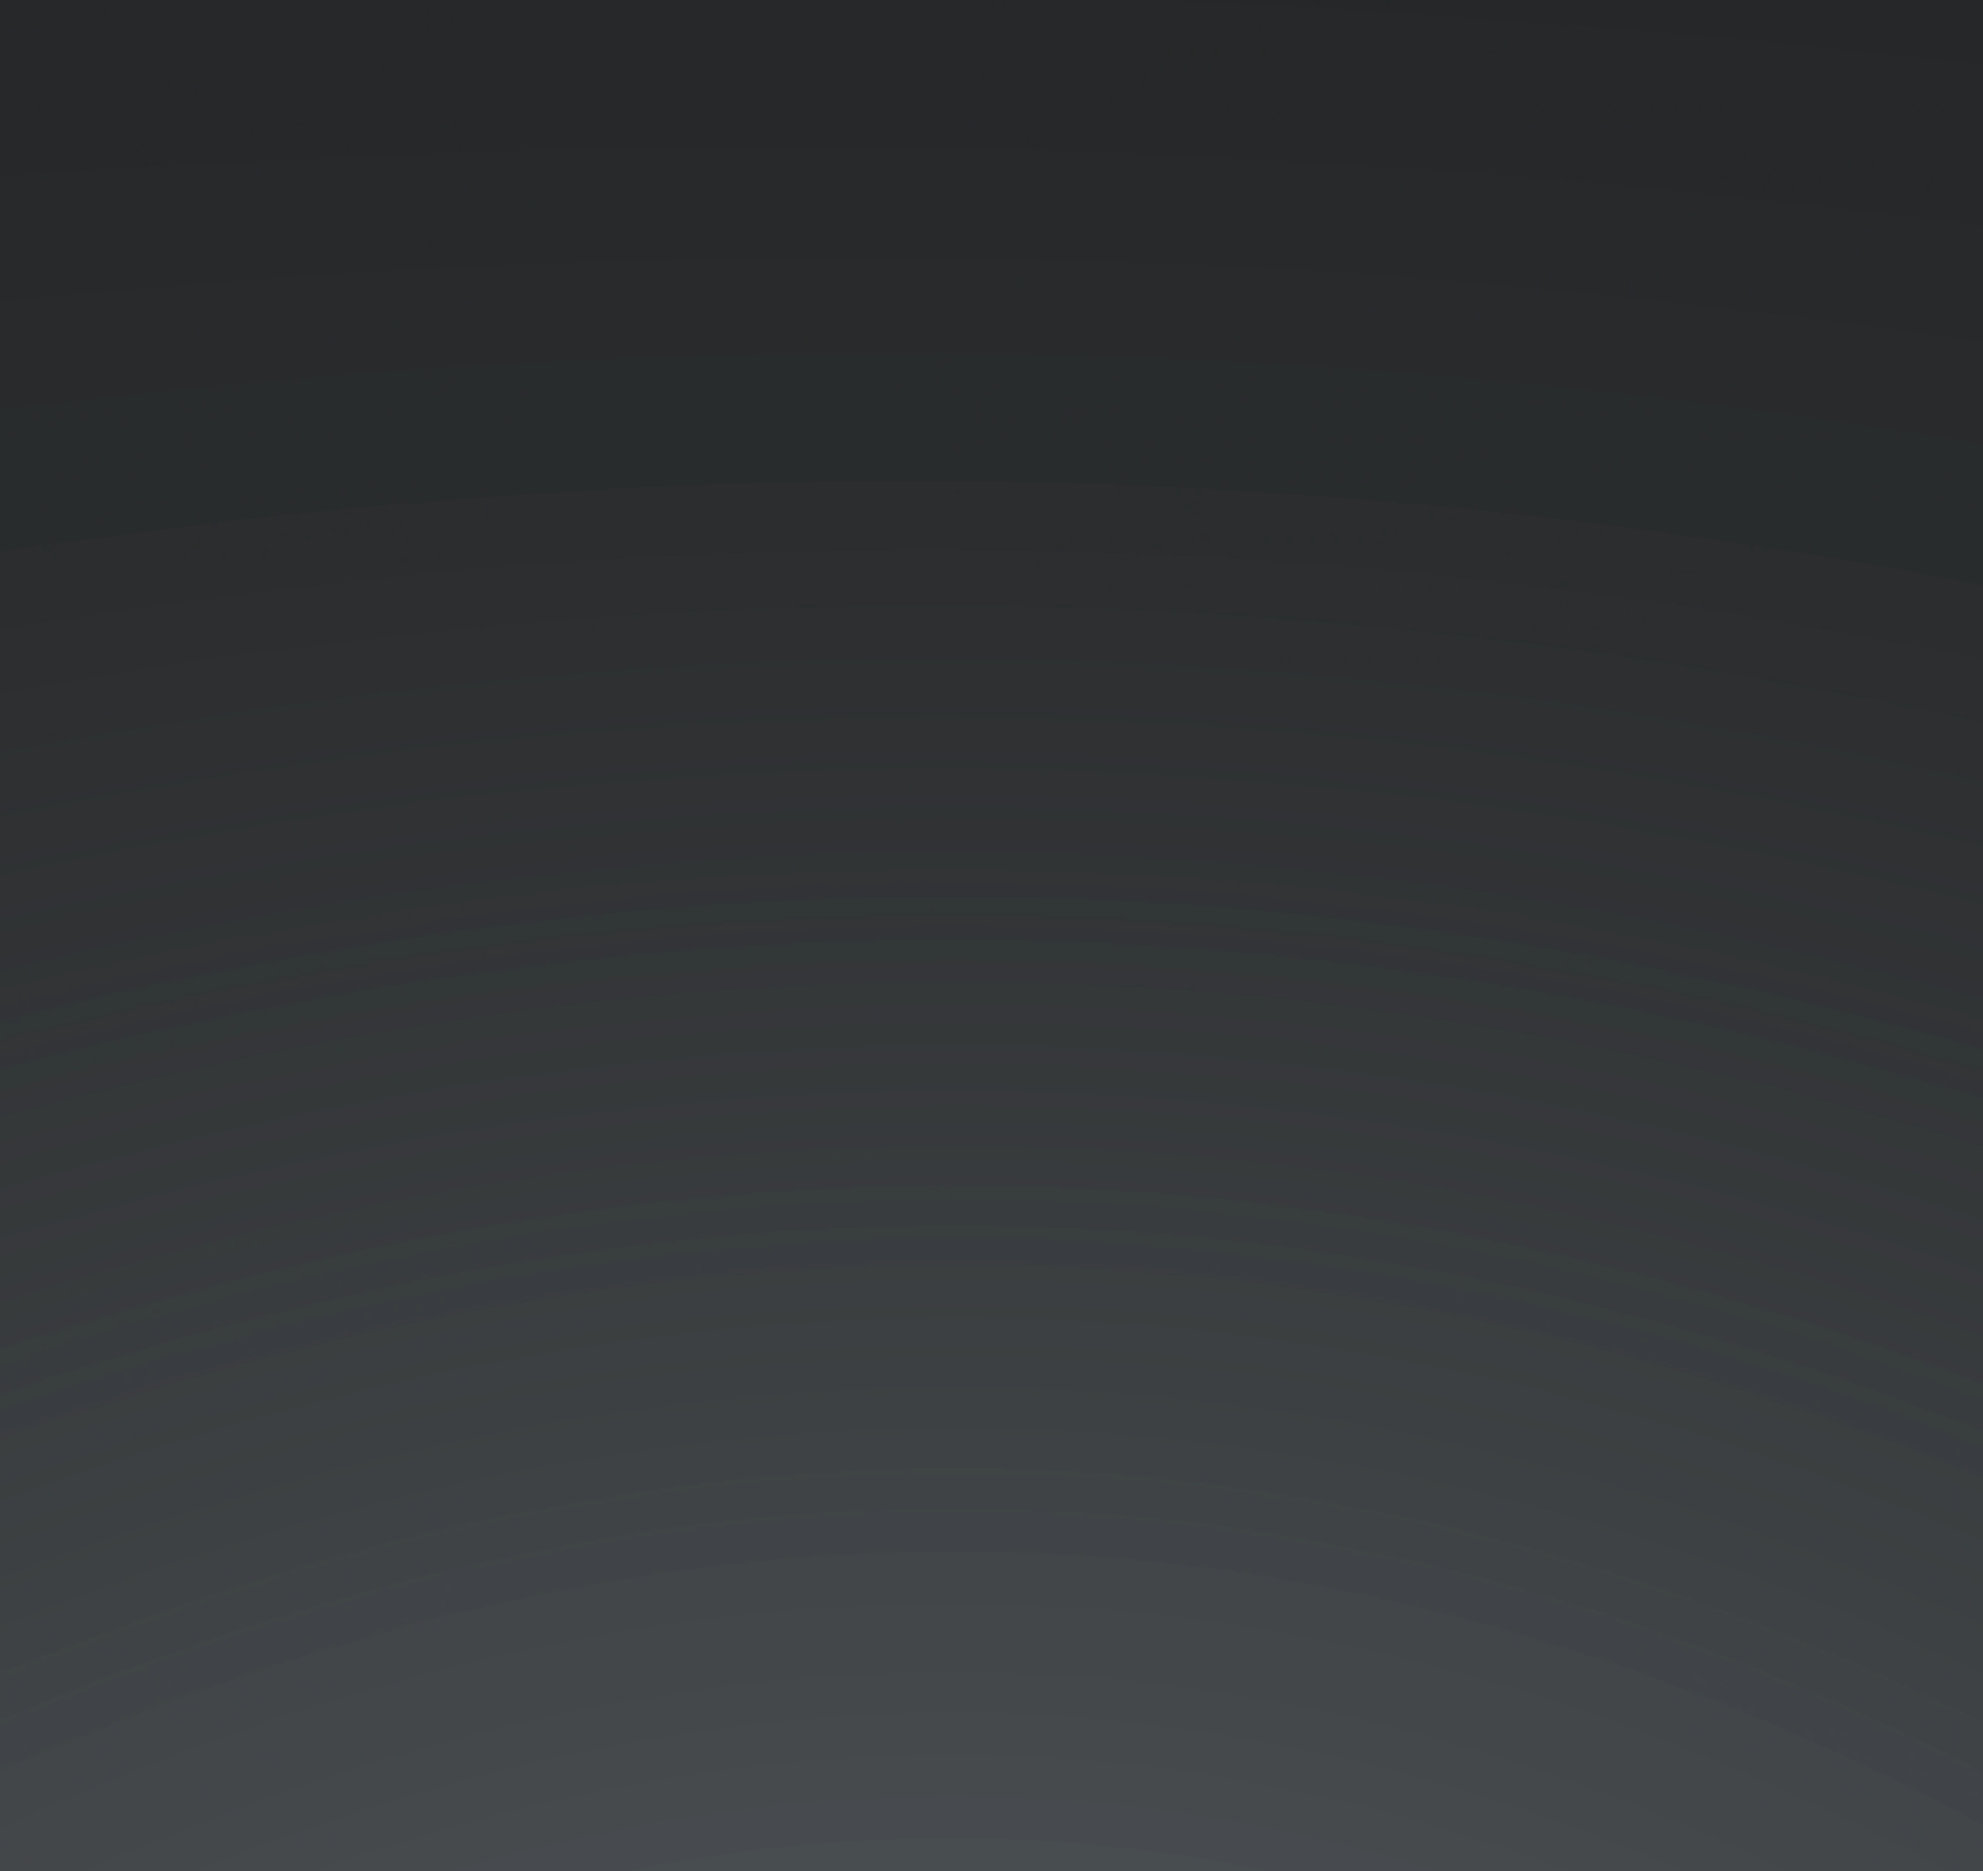
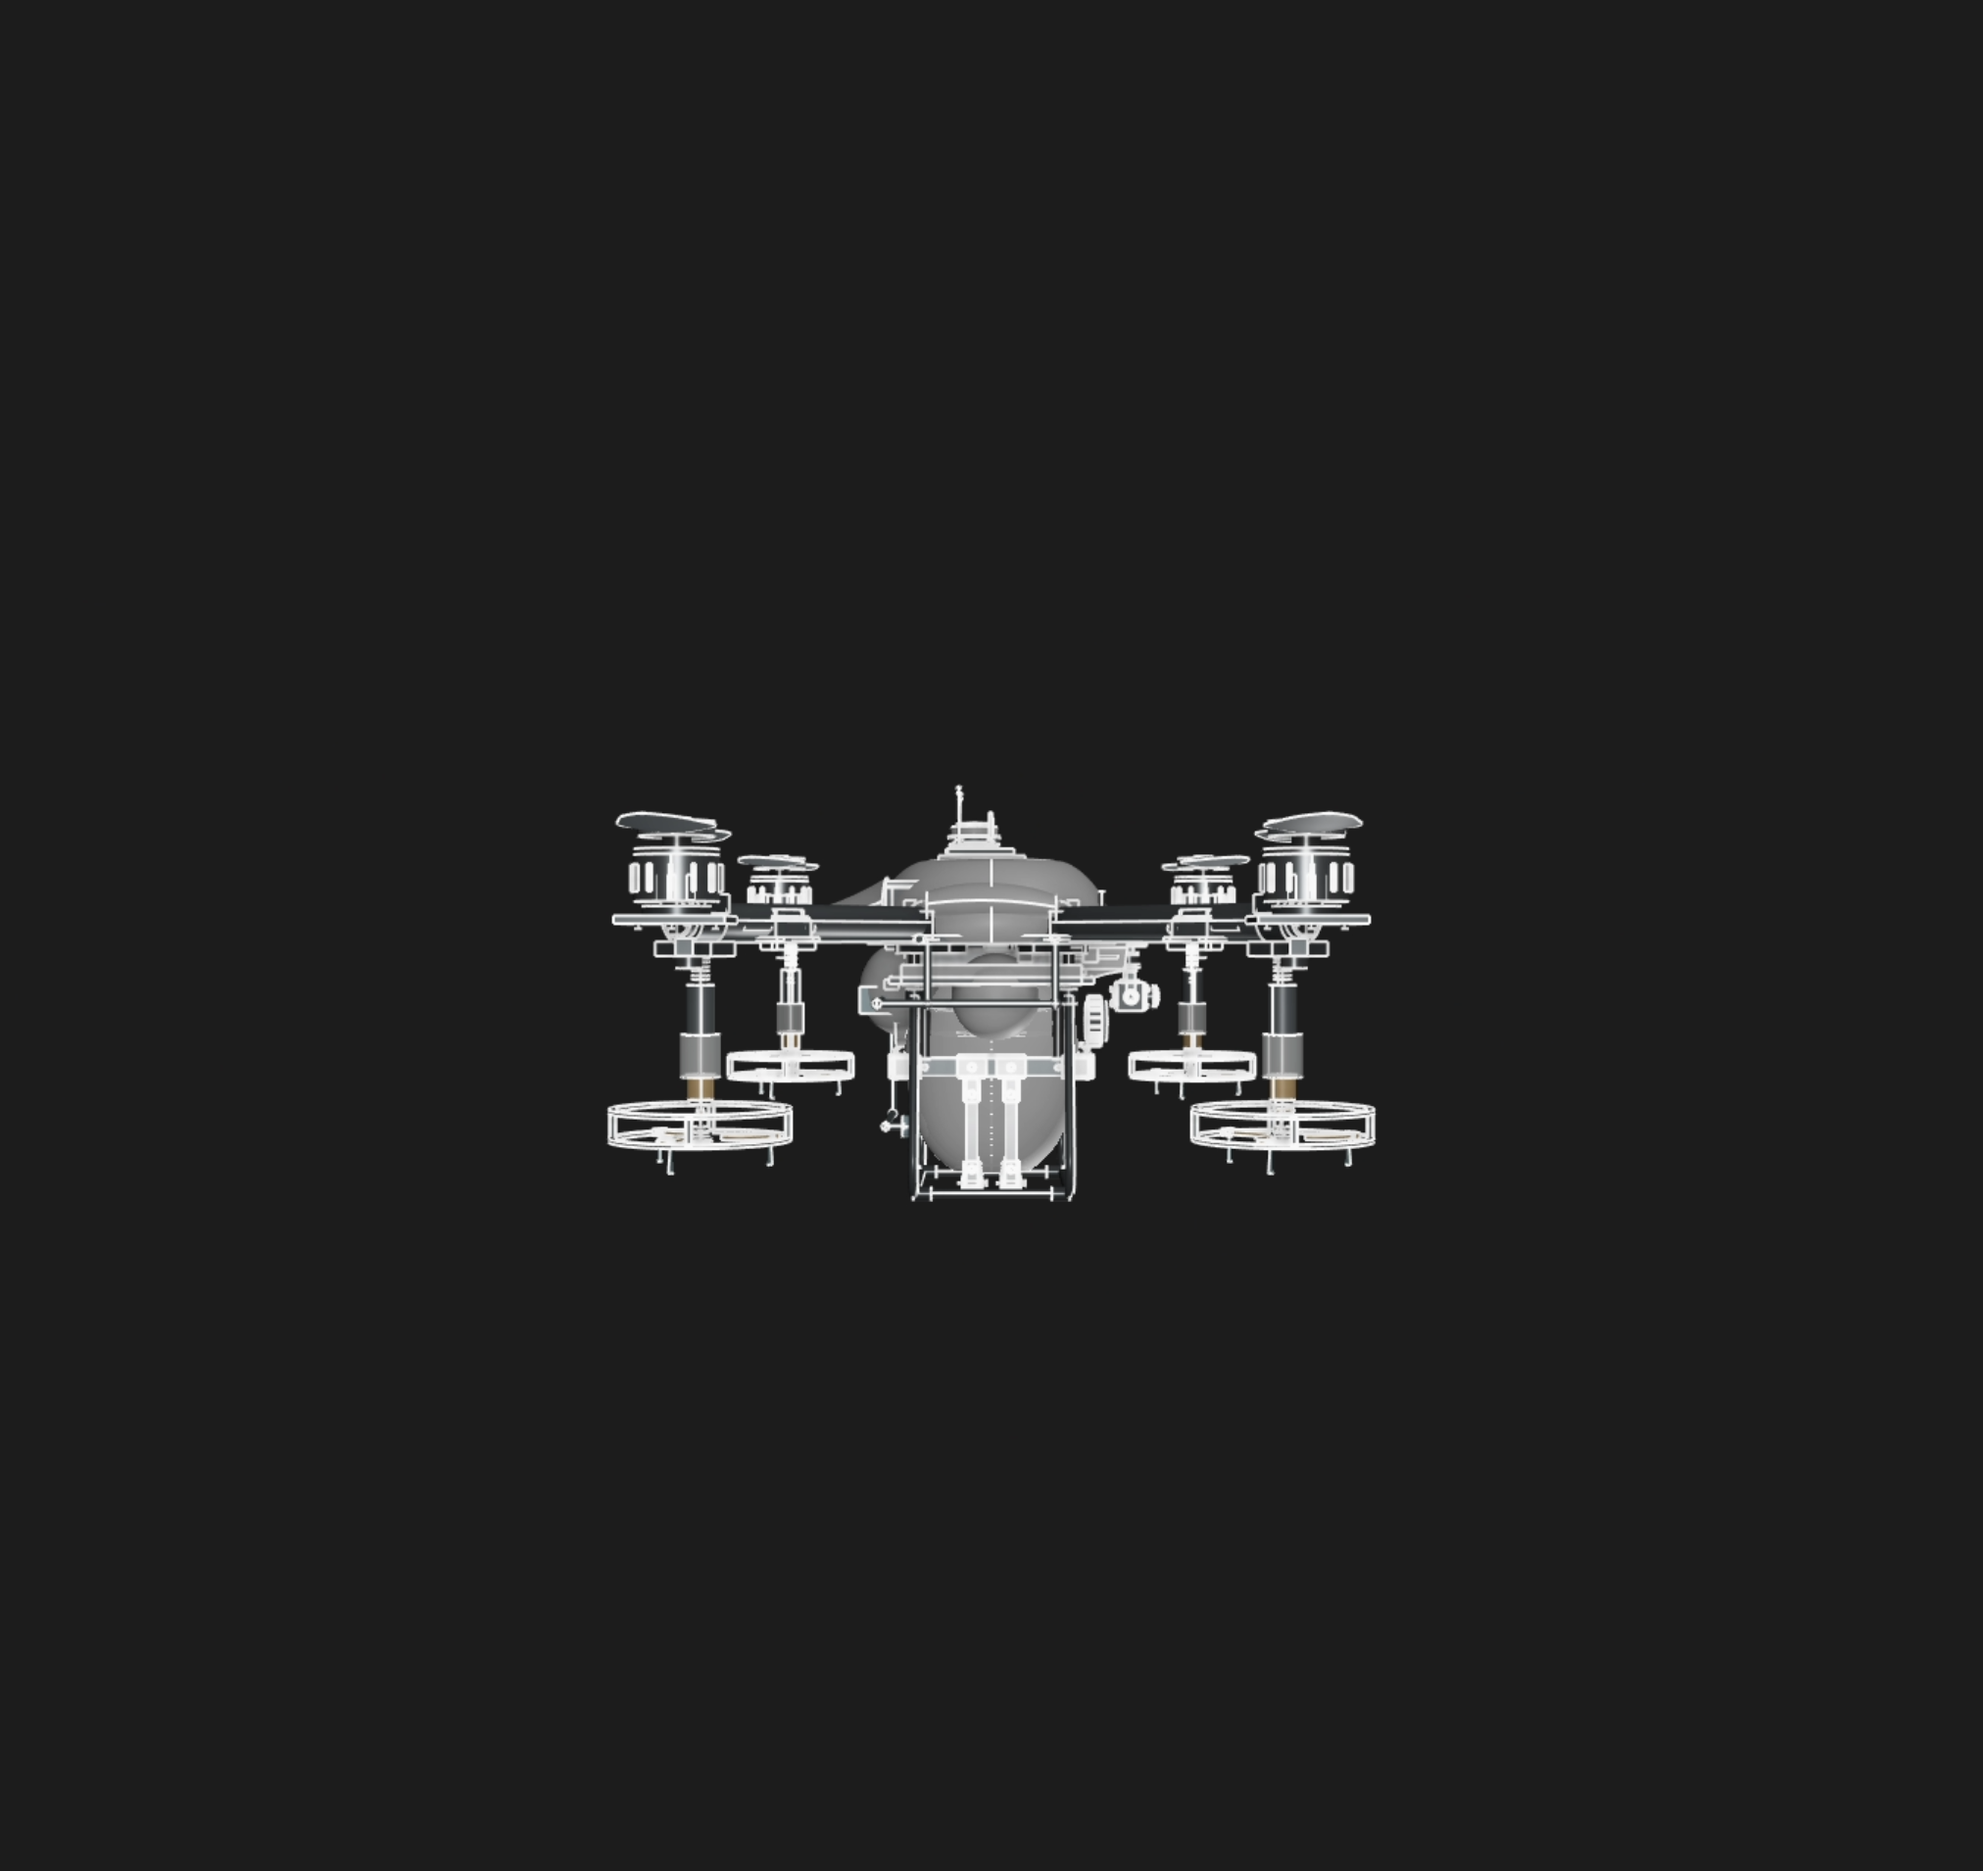
Add viewport screenshots to README and expand Zoo API feedback
- Add Configurator viewport screenshots section to README
- Rewrite README without em-dashes for a cleaner, plainer voice
- Add feature-wish feedback to API_FEEDBACK: project checkpoints, chat rewind, GitHub open/fork, materials and physics polish

diff --git a/README.md b/README.md
@@ -1,41 +1,50 @@
 # Agrofloat
 
-A fully parametric agricultural spray drone (quadcopter) designed from scratch in KCL, built for the [Zoo API Makeathon](https://zoo.dev/events/api-makeathon).
+A parametric agricultural spray drone (quadcopter) built from scratch in KCL for the [Zoo API Makeathon](https://zoo.dev/events/api-makeathon).
 
 ![Agrofloat render](thumbnail.png)
 
 ## The problem
 
-Crop protection spraying by hand or with ground rigs is slow, labor-intensive, and damages the crop. Commercial ag-drones are expensive, closed hardware that farmers cannot modify or repair. Most hobby/maker drone designs only cover airframe basics and skip the actual payload — the tank, pump, and spray plumbing that make the drone useful in the field.
+Crop spraying by hand or with ground rigs is slow and damages the crop. Commercial ag-drones are expensive, closed systems that farmers cannot modify or repair. Most open-source drone designs cover the airframe but skip the payload that makes the drone useful: the tank, pump, and spray plumbing.
 
 ## Why this solution
 
-I wanted a single, fully parametric reference design for an agricultural drone that a farmer or maker could open, tweak, and cut on their own machine. Everything is driven by exported parameters (`parameters.kcl`) — rotor datum, arm lengths, tube diameters, tank placement — so a size change in one place ripples through the whole assembly. The design targets a real class of ag-drones (~570 mm motor pitch) and includes the payload subsystems most open-source drones leave out: chemical tank + cap, cradle, pump module, plumbing, and spray nozzles, plus navigation/camera/battery/controller stacks.
+A single parametric reference design for an agricultural drone that anyone can open, tweak, and build. Every dimension is driven by exported parameters in `parameters.kcl` (rotor spacing, arm length, tube diameter, tank placement), so changing one value updates the whole assembly. It targets a real class of ag-drones (about 570 mm motor pitch) and includes the payload systems most open designs leave out: chemical tank, cap, cradle, pump, plumbing, and spray nozzles, plus navigation, camera, battery, and controller stacks.
+
+## Screenshots
+
+Configurator viewport renders:
+
+| | |
+| --- | --- |
+| ![Viewport screenshot 1](viewport-screenshot.png) | ![Viewport screenshot 2](viewport-screenshot-2.png) |
+| ![Viewport screenshot 3](viewport-screenshot-3.png) | |
 
 ## How it works
 
-The project is written as a modular KCL project. `main.kcl` is the entry point that imports each subsystem file, applies global transforms to assemble the aircraft, and exports a single flattened `agriculturalDroneAssembly`:
+A modular KCL project. `main.kcl` is the entry point. It imports each subsystem file, applies global transforms to assemble the aircraft, and exports one flattened `agriculturalDroneAssembly`:
 
 | Subsystem | File | Notes |
 | --- | --- | --- |
 | Fuselage | `upperFuselageShell.kcl`, `lowerFuselageShell.kcl` | Two-shell clamshell body |
-| Chassis | `chassisAssembly.kcl`, `chassisFastenerAssembly.kcl` | Central frame + fasteners |
+| Chassis | `chassisAssembly.kcl`, `chassisFastenerAssembly.kcl` | Central frame and fasteners |
 | Propulsion | `quadArmAssembly.kcl`, `armClampPlacement.kcl`, `quadMotorAssembly.kcl`, `quadEscAssembly.kcl`, `quadPropellerAssembly.kcl` | Booms, clamps, motors, ESCs, props |
 | Spray payload | `chemicalTank.kcl`, `tankCap.kcl`, `tankCradle.kcl`, `pumpModule.kcl`, `sprayPlumbing.kcl`, `quadNozzleAssembly.kcl` | Full spray path from tank to nozzle |
 | Avionics | `navigationModule.kcl`, `cameraModule.kcl`, `controllerStack.kcl`, `batteryPack.kcl` | Nav, camera, flight controller, power |
 | Landing | `landingGearAssembly.kcl` | Skids and crossbar |
 
-It was authored in Zoo Design Studio using KCL with Studio's reference/measurement tools to match the intended drone geometry, and the full model is generated by the Zoo Engine.
+It was authored in Zoo Design Studio using KCL with Studio's reference and measurement tools, and the full model is generated by the Zoo Engine.
 
 ## How the Zoo APIs were used
 
-- **KCL (Zoo Design Studio / Engine)** — the entire model is parametric KCL built in Studio, rendered by the Zoo modeling engine. Shared datums and dimensions live in `parameters.kcl` and are exported/imported across modules.
-- **Zoo Engine API** — KCL in this project is compiled and evaluated against the same Engine API used by Zoo Design Studio, which is what produces the renderable, measurable, exportable geometry.
-- **Open, remixable source** — because the whole design is plain-text `.kcl`, anyone can remix it, rebuild it through the Engine API, or wrap it with the Agent API to drive the design programmatically.
+- **KCL (Zoo Design Studio and Engine)** - the whole model is parametric KCL built in Studio and rendered by the Zoo modeling engine. Shared datums and dimensions live in `parameters.kcl` and are exported and imported across modules.
+- **Zoo Engine API** - the KCL is compiled and evaluated against the same Engine API that Zoo Design Studio uses, which produces the renderable, measurable, exportable geometry.
+- **Open and remixable** - because the design is plain-text `.kcl`, anyone can remix it, rebuild it through the Engine API, or drive it programmatically with the Agent API.
 
 ## Setup and installation
 
-1. Install [Zoo Design Studio](https://zoo.dev/design-studio) (free tier is enough to open and edit this project).
+1. Install [Zoo Design Studio](https://zoo.dev/design-studio) (the free tier is enough to open and edit this project).
 2. Sign in to your Zoo account.
 3. Clone this repository:
 
@@ -43,9 +52,9 @@ It was authored in Zoo Design Studio using KCL with Studio's reference/measureme
    git clone https://github.com/Priedins15/agro-drone-matador.git
    ```
 
-4. Open the `agrofloat` folder as a project in Zoo Design Studio (open `project.toml` / `main.kcl`).
-5. `main.kcl` is the entry point — run it to regenerate the full `agriculturalDroneAssembly`.
-6. Tweak dimensions in `parameters.kcl` and re-run to see the changes propagate through the whole aircraft.
+4. Open the `agrofloat` folder in Zoo Design Studio (open `project.toml` or `main.kcl`).
+5. Run `main.kcl` to regenerate the full `agriculturalDroneAssembly`.
+6. Change dimensions in `parameters.kcl` and run again to see the changes propagate through the whole aircraft.
 
 ## Demo
 
@@ -61,14 +70,14 @@ Watch the walkthrough video:
 
 ```
 agrofloat/
-├── main.kcl                 # Entry point — assembles and exports the drone
+├── main.kcl                 # Entry point: assembles and exports the drone
 ├── parameters.kcl           # Shared parametric datums and dimensions
 ├── project.toml             # Zoo project metadata (default file: main.kcl)
 ├── *Assembly.kcl            # Part- and sub-assembly-level modules
-├── *.kcl                    # Individual part modules (tank, pump, motors, …)
+├── *.kcl                    # Individual part modules (tank, pump, motors, ...)
 └── README.md
 ```
 
 ## License
 
-Open source — freely remix and build on it. See the Zoo [API Makeathon rules](https://zoo.dev/events/api-makeathon) for submission details.
+Open source. Freely remix and build on it. See the Zoo [API Makeathon rules](https://zoo.dev/events/api-makeathon) for submission details.

diff --git a/docs/API_FEEDBACK.md b/docs/API_FEEDBACK.md
@@ -17,6 +17,10 @@
 | 6 | Assembly verification | High | An interference/clearance query between bodies |
 | 7 | Import semantics | Low | Document `import * from` vs named module imports |
 | 8 | Export format clarity | Medium | Clarify `export` vs `export3d` and GLB vs glTF on the Modeling WebSocket |
+| 9 | Studio project checkpoints | Low | Save and jump back to named stages of a project |
+| 10 | Chat rewind / undo | Medium | Step backwards through Agent chat design turns |
+| 11 | Open & fork from GitHub | Medium | Load a git project straight into Studio, fork in a click |
+| 12 | Materials & physics polish | Low | Richer colors/textures/materials plus lightweight simulation |
 
 ---
 
@@ -185,6 +189,28 @@ All three appear in this project. There is no lint that warns if a star import s
 2. Clarify when to use `export` vs `export3d`, and whether `gltf` returns a GLB (binary) or a glTF JSON + buffers.
 
 **Workaround we shipped.** We decode with `@msgpack/msgpack` and consume `format: { type: "gltf" }` output as a GLB for three.js; the exact decode path is documented in `configurator/README.md` and in `scripts/build_variants.mjs`.
+
+---
+
+## What we'd love to see next (feature wishes)
+
+We genuinely enjoy working in Zoo Design Studio and with the Zoo APIs. These are ideas we would be excited to have, and we want to say up front that we love the platform. Building Agrofloat this way felt closer to having a conversation with the model than writing CAD by hand, and everything below would make that even better.
+
+### 9. Save and return to stages of the project
+
+It would be great to checkpoint a design at different points and jump back to any earlier stage. Right now a large project keeps only its current state, so exploring a risky change means losing the path back. Named snapshots, side-by-side comparison, and branching from a past stage would make experimentation feel safe and fun.
+
+### 10. Rewind the chat
+
+The Agent chat is a huge productivity boost. Adding "undo" and "rewind" to the conversation would let us step backwards through the design turns, revert a change made via chat, and restart from a clean point without re-typing the earlier steps. This would make the iterative design loop feel even more like working with a great teammate.
+
+### 11. Open and fork projects straight from GitHub
+
+We would love to load a git-hosted project directly into Studio so it opens and is usable as-is, then fork and remix it in a couple of clicks. That would make sharing parametric designs and building on the community's work seamless, and it fits the open-source spirit of the makeathon perfectly.
+
+### 12. Richer look and feel, plus physics
+
+The PBR `appearance` support is already impressive. Going further with ready-made material and texture libraries, environment lighting presets, and real-time previews would make renders pop even more. Lightweight physics or simulation inside the Engine (center-of-gravity checks, simple flight stability) would turn a great CAD tool into a full design-review tool, which would be a big win for projects like ours.
 
 ---
 
